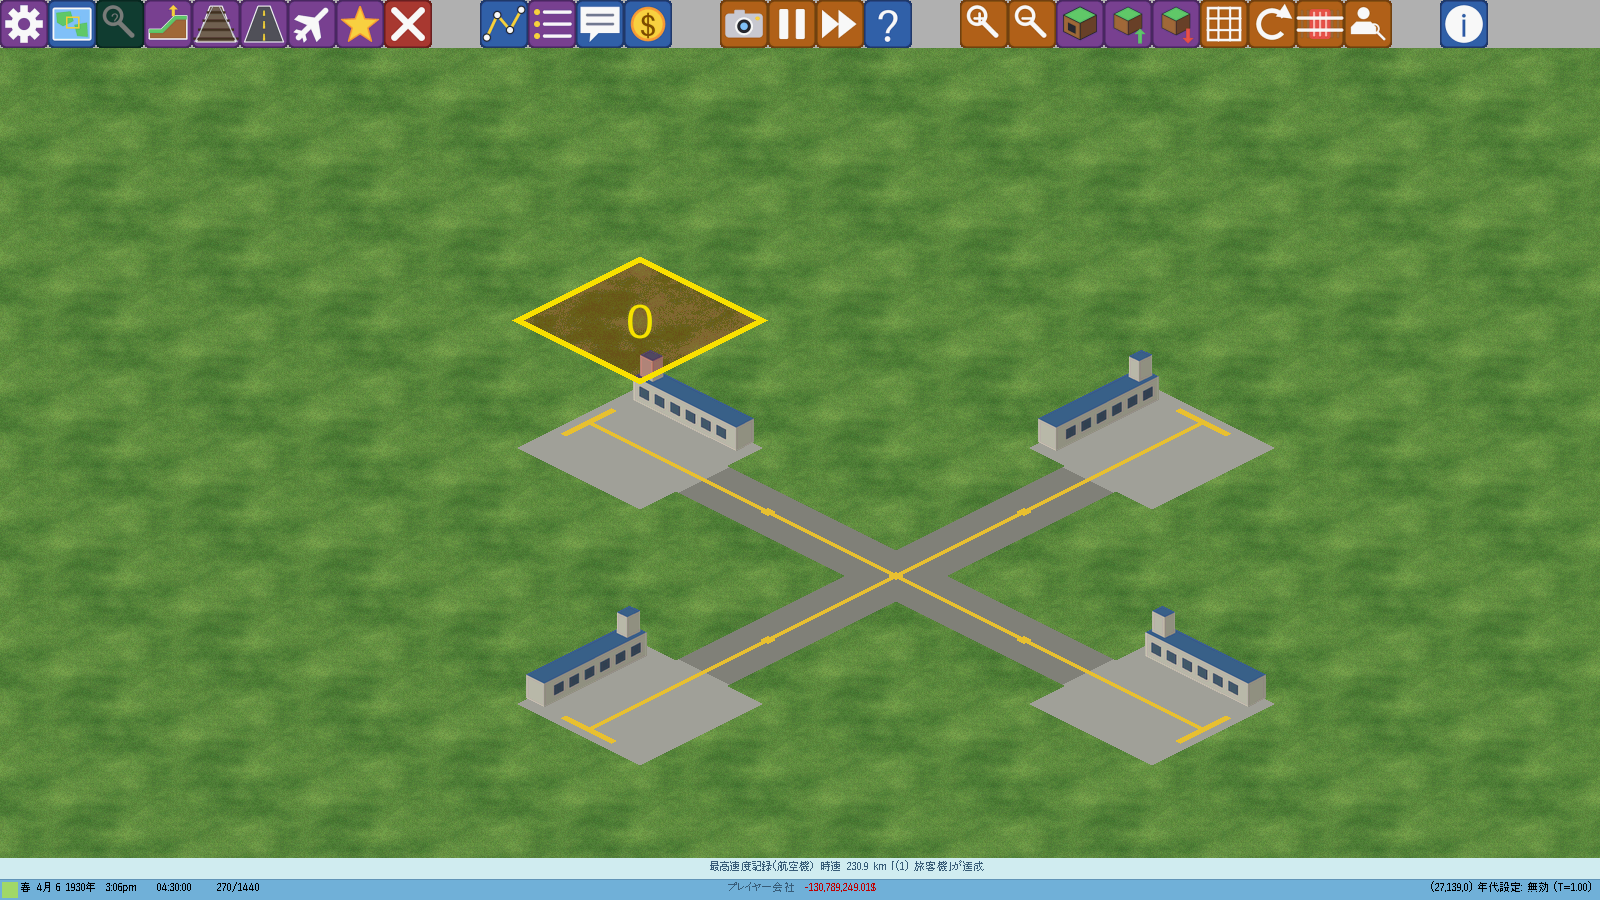
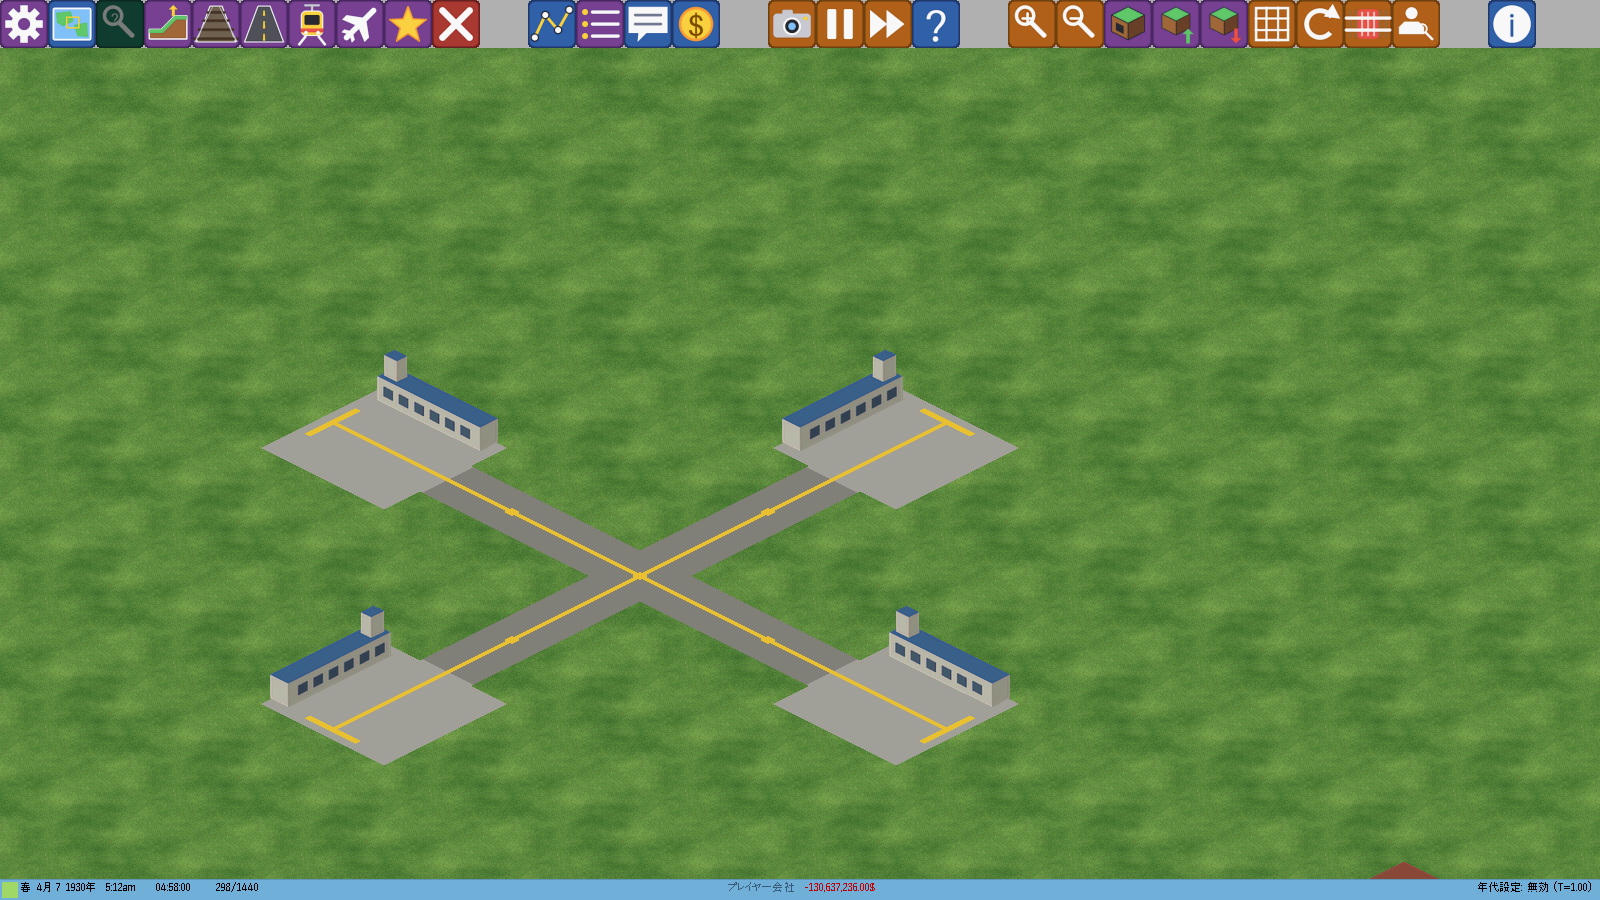
駅と格納庫の向きの画面を、カーソルが重ならないように撮り直す (#155)

diff --git a/docs/records/2026-11-26_air.md b/docs/records/2026-11-26_air.md
@@ -22,7 +22,7 @@
 
 ## 画面
 
-飛行機の段は路面電車の段（#153）の次に置いた。画面は実物比例に描き直した旅客機で撮った。画面 2〜9 は路面電車の段が入る前に撮ったので、上のツールバーに路面電車が無く、飛行機の位置が 1 と違う。
+飛行機の段は路面電車の段（#153）の次に置いた。画面は実物比例に描き直した旅客機で撮った。画面 4〜9 は路面電車の段が入る前に撮ったので、上のツールバーに路面電車が無く、飛行機の位置が 1 と違う。
 
 1. 飛行機のツールバー（左から誘導路・滑走路・撤去・格納庫・駅）
 
